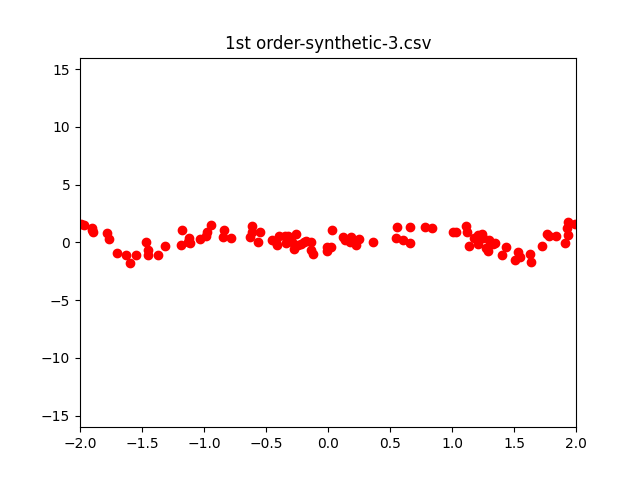
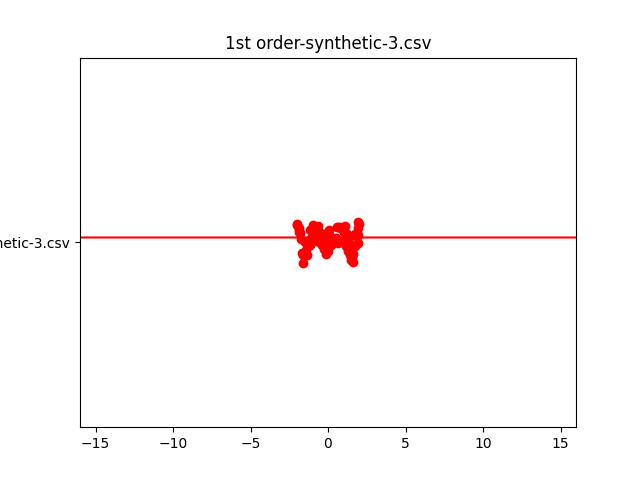
finished

diff --git a/1st-order.py b/1st-order.py
@@ -41,7 +41,7 @@ for filename in filenames:
     #y4 = x**4 + x**3 + x**2 + x**0
     #y5 = x**7 + x**6 + x**5 + x**4 + x**3 + x**2 + x**1 + x**0
 
-    myData = data.data("synthetic-3.csv")
+    myData = data.data(filename)
     myData.cast_to_float()
 
     myData = myData.data
@@ -64,16 +64,22 @@ for filename in filenames:
     plt.plot(xes,yes, 'ro')
 
 
-    Xrange = np.linspace(-100,100,1)
-    equation = thetas[0] + thetas[1]*Xrange**1
-    filename2= '1st order-'+ filename
-    plt.plot(Xrange, equation, '-r', label=filename2)
+
+    equation = thetas[0] + thetas[1]*x 
+    xes = []
+
+    def f(t, t1, t2):
+        return t1 + t2*t 
+    t = np.arange(-100,100,1)
+    ft = f(t, thetas[0], thetas[1])
+    filename2 = '1st order-' + filename 
+    plt.plot(t, f(t,thetas[0], thetas[1]), '-r', filename2)
     plt.title(filename2)
-    
+   
     plt.ylim(-16,16)
-    plt.xlim(-2,2)
+    plt.xlim(-16,16)
     
-    plt.savefig(filename2+".png")
+    plt.savefig(filename2 + ".png")
     plt.close()
     f = open(filename2 + ".txt", 'w')
     for i in range(len(thetas)):

diff --git a/2nd-order.py b/2nd-order.py
@@ -83,8 +83,8 @@ for filename in filenames:
     plt.plot(t, f(t,thetas[0], thetas[1], thetas[2]), '-r', filename2)
     plt.title(filename2)
    
-    plt.ylim(-12,12)
-    plt.xlim(-2,2)
+    plt.ylim(-16,16)
+    plt.xlim(-16,16)
     
     plt.savefig(filename2 + ".png")
     plt.close()

diff --git a/4th-order.py b/4th-order.py
@@ -79,7 +79,7 @@ for filename in filenames:
     plt.title(filename2)
    
     plt.ylim(-16,16)
-    plt.xlim(-2,2)
+    plt.xlim(-16,16)
     
     plt.savefig(filename2 + ".png")
     plt.close()
